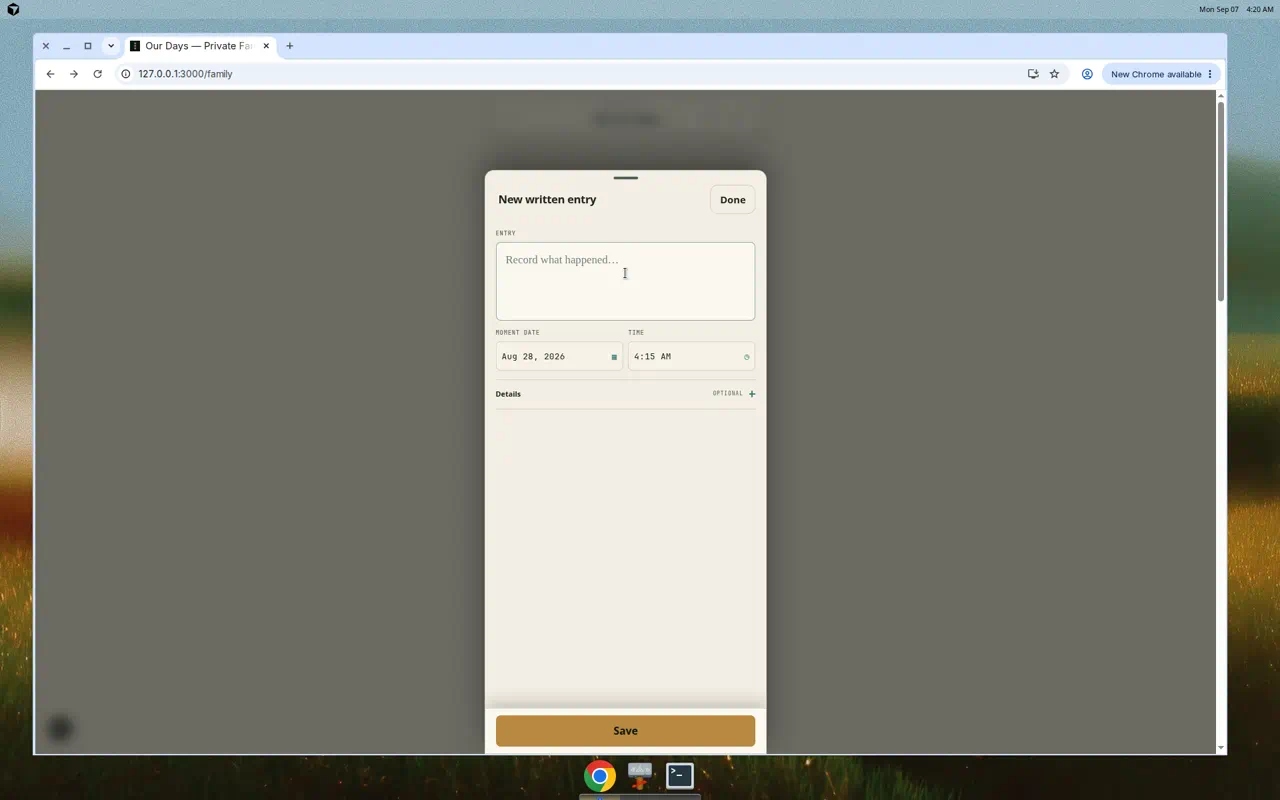
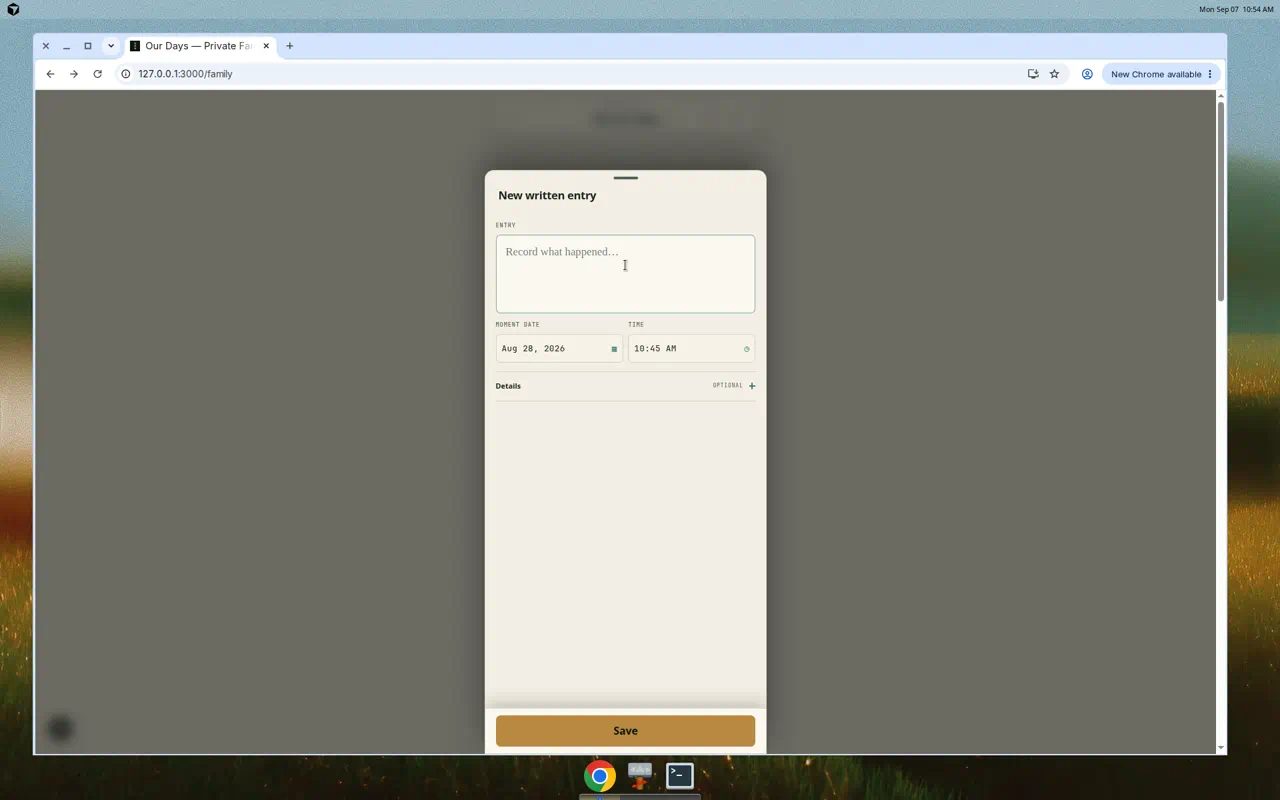
Remove Done from composer sheets; keep it on Activity.
Composer chrome is handle plus title. Dismiss is swipe-down. Save stays the primary action. Refresh written-editor stills proving Done is gone in light and dark.

Changed region(s): [[0.375, 0.2188, 0.5938, 0.3438], [0.375, 0.375, 0.5938, 0.5], [0.5625, 0.4688, 0.5938, 0.5]]

diff --git a/src/features/composer/moment-composer.test.tsx b/src/features/composer/moment-composer.test.tsx
@@ -200,6 +200,28 @@ async function finishSheetClose() {
   });
 }
 
+function swipeComposerClosed() {
+  const handle = document.querySelector(
+    ".new-moment-composer-dialog .sheet-handle",
+  );
+  const sheet = document.querySelector(
+    ".new-moment-composer-dialog .activity-sheet",
+  ) as HTMLElement | null;
+  expect(handle).not.toBeNull();
+  expect(sheet).not.toBeNull();
+  fireEvent.pointerDown(handle!, { pointerId: 1, clientX: 40, clientY: 20 });
+  fireEvent.pointerMove(sheet!, {
+    pointerId: 1,
+    clientX: 40,
+    clientY: 20 + sheetDismissThresholdPx,
+  });
+  fireEvent.pointerUp(sheet!, {
+    pointerId: 1,
+    clientX: 40,
+    clientY: 20 + sheetDismissThresholdPx,
+  });
+}
+
 async function setComposerTime(
   user: ReturnType<typeof userEvent.setup>,
   hour: string,
@@ -309,7 +331,7 @@ describe("MomentComposer", () => {
       screen.getByRole("button", { name: `Time, ${expectedLabel}` }),
     ).toBeVisible();
     expect(screen.getByText("Time")).not.toHaveTextContent("Optional");
-    await user.click(screen.getByRole("button", { name: "Done" }));
+    swipeComposerClosed();
     expect(confirm).not.toHaveBeenCalled();
     await finishSheetClose();
 
@@ -322,7 +344,7 @@ describe("MomentComposer", () => {
         name: `Time, ${formatPickerTimeLabel(currentPickerTimeValue())}`,
       }),
     ).toBeVisible();
-    await user.click(screen.getByRole("button", { name: "Done" }));
+    swipeComposerClosed();
     expect(confirm).not.toHaveBeenCalled();
   });
 
@@ -1056,7 +1078,7 @@ describe("MomentComposer", () => {
       "composer-sheet",
     );
     expect(picker.querySelector(".sheet-handle")).not.toBeNull();
-    expect(screen.getByRole("button", { name: "Done" })).toBeVisible();
+    expect(screen.queryByRole("button", { name: "Done" })).toBeNull();
     expect(picker.parentElement).toBe(document.body);
     expect(picker.closest(".topbar")).toBeNull();
     expect(picker.closest(".app-shell")).toBeNull();
@@ -1075,7 +1097,7 @@ describe("MomentComposer", () => {
     expect(document.body).toHaveClass("composer-scroll-locked");
     expect(document.documentElement).toHaveClass("composer-scroll-locked");
 
-    await user.click(screen.getByRole("button", { name: "Done" }));
+    swipeComposerClosed();
     expect(document.querySelector(".activity-sheet")).toHaveClass("is-closing");
     expect(screen.getByRole("dialog", { hidden: true })).toHaveAttribute(
       "aria-hidden",
@@ -1113,7 +1135,7 @@ describe("MomentComposer", () => {
     );
     expect(editor.querySelector(".sheet-handle")).not.toBeNull();
     expect(editor.querySelector(".activity-sheet-chrome")).not.toBeNull();
-    expect(screen.getByRole("button", { name: "Done" })).toBeVisible();
+    expect(screen.queryByRole("button", { name: "Done" })).toBeNull();
     expect(
       screen.queryByRole("button", { name: /Choose another/u }),
     ).toBeNull();
@@ -1137,7 +1159,7 @@ describe("MomentComposer", () => {
       );
       const editor = screen.getByRole("dialog", { name: title });
       expect(screen.getByRole("heading", { name: title })).toBeVisible();
-      expect(screen.getByRole("button", { name: "Done" })).toBeVisible();
+      expect(screen.queryByRole("button", { name: "Done" })).toBeNull();
       expect(editor.querySelector(".sheet-handle")).not.toBeNull();
       expect(
         screen.queryByRole("button", { name: /Choose another/u }),
@@ -1151,9 +1173,9 @@ describe("MomentComposer", () => {
     },
   );
 
-  it("dismisses the composer sheet with Done and a reverse sheet motion", async () => {
-    const user = await openComposer();
-    await user.click(screen.getByRole("button", { name: "Done" }));
+  it("dismisses the composer sheet with a handle swipe and reverse sheet motion", async () => {
+    await openComposer();
+    swipeComposerClosed();
     const dialog = document.querySelector(".new-moment-composer-dialog");
     expect(dialog?.querySelector(".activity-sheet")).toHaveClass("is-closing");
     expect(dialog).toHaveAttribute("aria-hidden", "true");
@@ -1209,8 +1231,8 @@ describe("MomentComposer", () => {
       dispatchEvent: vi.fn(),
     }));
     try {
-      const user = await openComposer();
-      await user.click(screen.getByRole("button", { name: "Done" }));
+      await openComposer();
+      swipeComposerClosed();
       expect(screen.queryByRole("dialog")).not.toBeInTheDocument();
     } finally {
       media.mockImplementation((query: string) => ({
@@ -1646,7 +1668,7 @@ describe("MomentComposer", () => {
     expect(onRequestClose).toHaveBeenCalledOnce();
   });
 
-  it("has no in-sheet type switcher; wrong type is Done then + again", async () => {
+  it("has no in-sheet type switcher; wrong type is swipe dismiss then + again", async () => {
     const user = await openComposer();
     const confirm = vi.spyOn(window, "confirm").mockReturnValue(false);
     await user.click(screen.getByRole("button", { name: /Written entry/ }));
@@ -1659,14 +1681,14 @@ describe("MomentComposer", () => {
     ).toBeNull();
     expect(document.querySelector(".composer-editor-header")).toBeNull();
 
-    await user.click(screen.getByRole("button", { name: "Done" }));
+    swipeComposerClosed();
     expect(confirm).toHaveBeenCalledWith("Discard this unfinished moment?");
     expect(screen.getByRole("textbox", { name: "Entry" })).toHaveValue(
       "Keep this",
     );
 
     confirm.mockReturnValue(true);
-    await user.click(screen.getByRole("button", { name: "Done" }));
+    swipeComposerClosed();
     await finishSheetClose();
 
     await user.click(screen.getByRole("button", { name: "Open composer" }));
@@ -1806,12 +1828,12 @@ describe("MomentComposer", () => {
     input = screen.getByLabelText(/Choose photo/u);
     await user.upload(input, first);
     const confirm = vi.spyOn(window, "confirm").mockReturnValue(false);
-    await user.click(screen.getByRole("button", { name: "Done" }));
+    swipeComposerClosed();
     expect(revokeObjectURL).toHaveBeenCalledTimes(2);
     expect(screen.getByAltText("Selected photo preview")).toBeVisible();
 
     confirm.mockReturnValue(true);
-    await user.click(screen.getByRole("button", { name: "Done" }));
+    swipeComposerClosed();
     await finishSheetClose();
     expect(revokeObjectURL).toHaveBeenNthCalledWith(
       3,
@@ -1844,7 +1866,7 @@ describe("MomentComposer", () => {
     expect(revokeObjectURL).toHaveBeenCalledWith("blob:composer-preview-1");
   });
 
-  it("revokes a photo exactly once when Done discards the draft", async () => {
+  it("revokes a photo exactly once when swipe dismiss discards the draft", async () => {
     const user = await openComposer();
     const confirm = vi.spyOn(window, "confirm").mockReturnValue(true);
     await user.click(screen.getByRole("button", { name: /^Photo/u }));
@@ -1852,7 +1874,7 @@ describe("MomentComposer", () => {
       screen.getByLabelText(/Choose photo/u),
       new File(["photo"], "private.jpg", { type: "image/jpeg" }),
     );
-    await user.click(screen.getByRole("button", { name: "Done" }));
+    swipeComposerClosed();
 
     expect(confirm).toHaveBeenCalledWith("Discard this unfinished moment?");
     await finishSheetClose();
@@ -1931,7 +1953,7 @@ describe("MomentComposer", () => {
     const confirm = vi.spyOn(window, "confirm").mockReturnValue(false);
     await user.click(screen.getByRole("button", { name: /Written entry/ }));
     await mutate(user);
-    await user.click(screen.getByRole("button", { name: "Done" }));
+    swipeComposerClosed();
     expect(confirm).toHaveBeenCalledWith("Discard this unfinished moment?");
     expect(screen.getByRole("dialog")).toBeVisible();
   });

diff --git a/tests/e2e/composer.spec.ts b/tests/e2e/composer.spec.ts
@@ -146,11 +146,24 @@ async function openComposer(page: Page) {
   return page.locator(".new-moment-composer-dialog");
 }
 
-test("Done dismisses the type picker sheet", async ({ page }) => {
+async function swipeComposerClosed(dialog: Locator) {
+  const handle = dialog.locator(".sheet-handle");
+  const box = await handle.boundingBox();
+  if (!box) throw new Error("Composer sheet is missing a grab handle.");
+  const page = dialog.page();
+  const x = box.x + box.width / 2;
+  const y = box.y + box.height / 2;
+  await page.mouse.move(x, y);
+  await page.mouse.down();
+  await page.mouse.move(x, y + 140, { steps: 8 });
+  await page.mouse.up();
+}
+
+test("a handle swipe dismisses the type picker sheet", async ({ page }) => {
   await page.goto("/family");
   const dialog = await openComposer(page);
   await expect(dialog).toBeVisible();
-  await dialog.getByRole("button", { name: "Done" }).click();
+  await swipeComposerClosed(dialog);
   await expect(dialog.locator(".composer-sheet")).toHaveClass(/is-closing/u);
   await expect(dialog).toBeHidden();
 });
@@ -163,7 +176,7 @@ test("type selection opens as a tall sheet and dismisses with sheet-down", async
   const sheet = dialog.locator(".composer-sheet");
   await expect(sheet).toHaveClass(/activity-sheet/u);
   await expect(sheet.locator(".sheet-handle")).toBeVisible();
-  await expect(dialog.getByRole("button", { name: "Done" })).toBeVisible();
+  await expect(dialog.getByRole("button", { name: "Done" })).toHaveCount(0);
   await expect(sheet).toHaveCSS("animation-name", "sheet-up");
   await sheet.evaluate(async (element) => {
     await Promise.all(
@@ -194,7 +207,7 @@ test("type selection opens as a tall sheet and dismisses with sheet-down", async
       },
     );
   });
-  await dialog.getByRole("button", { name: "Done" }).click();
+  await swipeComposerClosed(dialog);
   await expect(dismiss).resolves.toEqual({
     name: "sheet-down",
     durationMs: 200,
@@ -347,7 +360,7 @@ test("composer is modal, contains focus, protects every draft, and restores focu
   const overlaySheet = dialog.locator(".composer-sheet");
   await expect(overlaySheet).toHaveClass(/activity-sheet/u);
   await expect(overlaySheet.locator(".sheet-handle")).toBeVisible();
-  await expect(dialog.getByRole("button", { name: "Done" })).toBeVisible();
+  await expect(dialog.getByRole("button", { name: "Done" })).toHaveCount(0);
   const overlayMotion = await overlaySheet.evaluate((sheet) => {
     const style = getComputedStyle(sheet);
     const duration = style.animationDuration;
@@ -416,7 +429,7 @@ test("composer is modal, contains focus, protects every draft, and restores focu
     true,
   );
   await expect(overlaySheet).toHaveClass(/activity-sheet/u);
-  await expect(dialog.getByRole("button", { name: "Done" })).toBeVisible();
+  await expect(dialog.getByRole("button", { name: "Done" })).toHaveCount(0);
   await expect(
     dialog.getByRole("button", { name: /Choose another/u }),
   ).toHaveCount(0);
@@ -450,7 +463,7 @@ test("composer is modal, contains focus, protects every draft, and restores focu
   );
 
   page.once("dialog", async (confirmation) => confirmation.dismiss());
-  await page.getByRole("button", { name: "Done" }).click();
+  await page.keyboard.press("Escape");
   await expect(text).toHaveValue("A draft worth keeping");
   await expect(
     dialog.getByRole("button", { name: "Moment date, Aug 21, 2026" }),
@@ -459,7 +472,7 @@ test("composer is modal, contains focus, protects every draft, and restores focu
   await expect(page.getByRole("checkbox", { name: /Molly/u })).toBeChecked();
 
   page.once("dialog", async (confirmation) => confirmation.accept());
-  await page.getByRole("button", { name: "Done" }).click();
+  await page.keyboard.press("Escape");
   await expect(dialog).toBeHidden();
   await expect(trigger).toBeFocused();
   await expect(page.locator("body")).not.toHaveClass(/composer-scroll-locked/u);
@@ -485,7 +498,7 @@ test("required content rejects whitespace and future dates before review", async
       dialog.getByRole("heading", { name: "Review entry" }),
     ).toHaveCount(0);
     page.once("dialog", (confirmation) => confirmation.accept());
-    await dialog.getByRole("button", { name: "Done" }).click();
+    await page.keyboard.press("Escape");
   }
 
   const dialog = await openComposer(page);
@@ -783,7 +796,7 @@ test("design-mode save emits no mutation, persistence, history, or timeline chan
     .click();
   await expect(page.getByRole("textbox", { name: "Entry" })).toHaveValue("");
 
-  await page.getByRole("button", { name: "Done" }).click();
+  await swipeComposerClosed(draftDialog);
   draftDialog = await openComposer(page);
   await draftDialog.getByRole("button", { name: /^Photo/u }).click();
   await draftDialog.getByLabel(/Choose photo/u).setInputFiles({
@@ -886,7 +899,7 @@ test("an open entry overlay does not scroll the family feed underneath", async (
   ).toBeGreaterThan(0);
 
   page.once("dialog", (confirmation) => confirmation.accept());
-  await dialog.getByRole("button", { name: "Done" }).click();
+  await page.keyboard.press("Escape");
   await expect(dialog).toBeHidden();
   await expect(page.locator("html")).not.toHaveClass(/composer-scroll-locked/u);
   await expect(page.locator("body")).not.toHaveClass(/composer-scroll-locked/u);
@@ -918,7 +931,6 @@ test("keyboard-sized viewport keeps every capture and review control reachable",
     .locator(".people-tags label")
     .filter({ hasText: "Molly" });
   for (const control of [
-    page.getByRole("button", { name: "Done" }),
     text,
     page.getByRole("button", { name: /^Moment date,/u }),
     dialog.getByRole("button", { name: /^Journal,/u }),

diff --git a/src/features/moments/connected-moment-control.test.tsx b/src/features/moments/connected-moment-control.test.tsx
@@ -267,14 +267,14 @@ describe("ConnectedMomentControl", () => {
 
     await user.clear(screen.getByLabelText("Entry"));
     await user.type(screen.getByLabelText("Entry"), "A changed draft.");
-    await user.click(screen.getByRole("button", { name: "Done" }));
+    await user.keyboard("{Escape}");
     expect(confirm).toHaveBeenCalledWith(
       "Discard your unsaved changes to this moment?",
     );
     expect(screen.getByRole("dialog")).toBeInTheDocument();
 
     confirm.mockReturnValueOnce(true);
-    await user.click(screen.getByRole("button", { name: "Done" }));
+    await user.keyboard("{Escape}");
     await waitFor(() => {
       expect(document.querySelector(".new-moment-composer-dialog")).toBeNull();
     });

diff --git a/tests/e2e/mobile-layout.spec.ts b/tests/e2e/mobile-layout.spec.ts
@@ -235,7 +235,7 @@ async function expectComposerMatchesActivitySheet(page: Page) {
   const sheet = picker.locator(".composer-sheet");
   await expect(sheet).toHaveClass(/activity-sheet/u);
   await expect(sheet.locator(".sheet-handle")).toBeVisible();
-  await expect(picker.getByRole("button", { name: "Done" })).toBeVisible();
+  await expect(picker.getByRole("button", { name: "Done" })).toHaveCount(0);
   const geometry = await sheet.evaluate((element) => {
     const handle = element.querySelector(".sheet-handle");
     if (!(handle instanceof HTMLElement)) {

diff --git a/src/features/composer/composer-session.test.tsx b/src/features/composer/composer-session.test.tsx
@@ -68,7 +68,7 @@ describe("ComposerSessionProvider", () => {
     expect(dialog.querySelector(".activity-sheet")).toHaveClass(
       "composer-sheet",
     );
-    expect(screen.getByRole("button", { name: "Done" })).toBeVisible();
+    expect(screen.queryByRole("button", { name: "Done" })).toBeNull();
     expect(trigger).toHaveAttribute("aria-expanded", "true");
 
     await user.click(trigger);

diff --git a/src/app/globals.css b/src/app/globals.css
@@ -7276,6 +7276,11 @@ html[data-theme].overlay-open .app-shell::before,
   justify-content: center;
 }
 
+.new-moment-composer-dialog .activity-sheet-bar {
+  justify-content: flex-start;
+  padding-right: 20px;
+}
+
 .new-moment-composer-dialog .composer-editor-header,
 .new-moment-composer-dialog .composer-back,
 .new-moment-composer-dialog .composer-fullscreen-form > .private-label {

diff --git a/src/features/composer/moment-composer.tsx b/src/features/composer/moment-composer.tsx
@@ -1247,14 +1247,6 @@ export function MomentComposer({
           >
             {sheetTitle}
           </h2>
-          <button
-            className="sheet-close activity-sheet-done"
-            type="button"
-            disabled={saving}
-            onClick={() => close()}
-          >
-            Done
-          </button>
         </header>
       </div>
       <div
